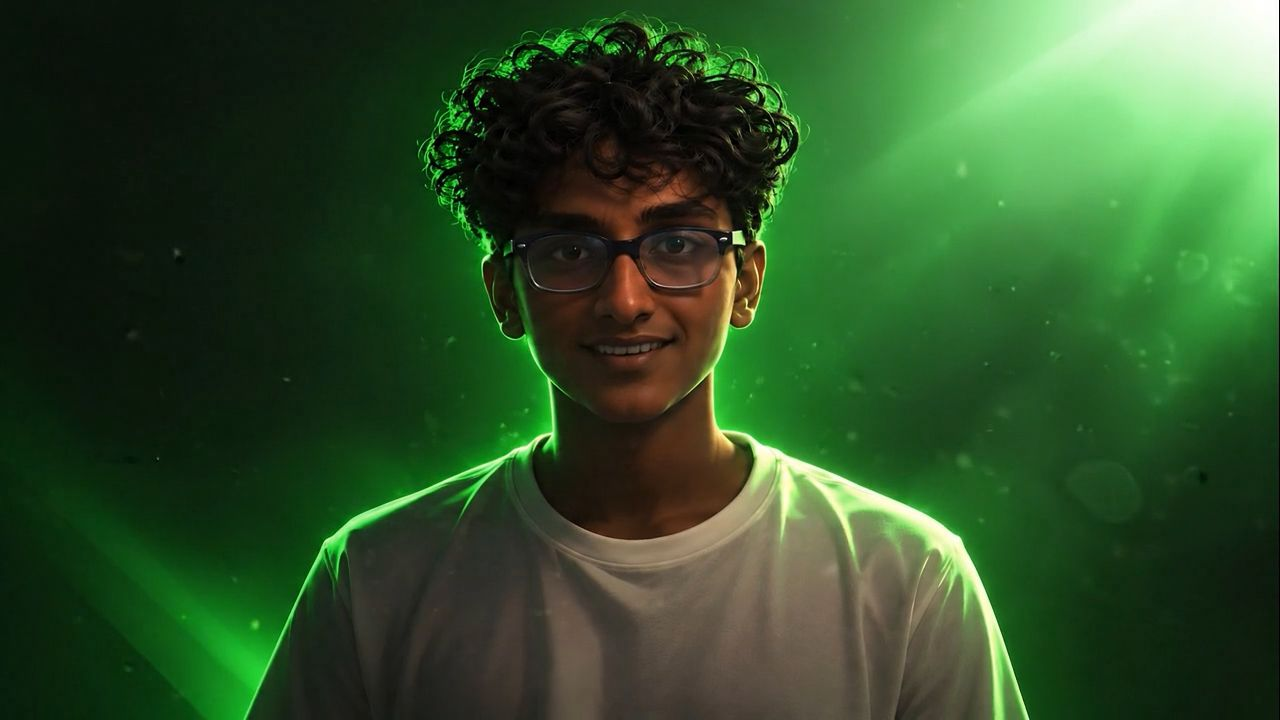
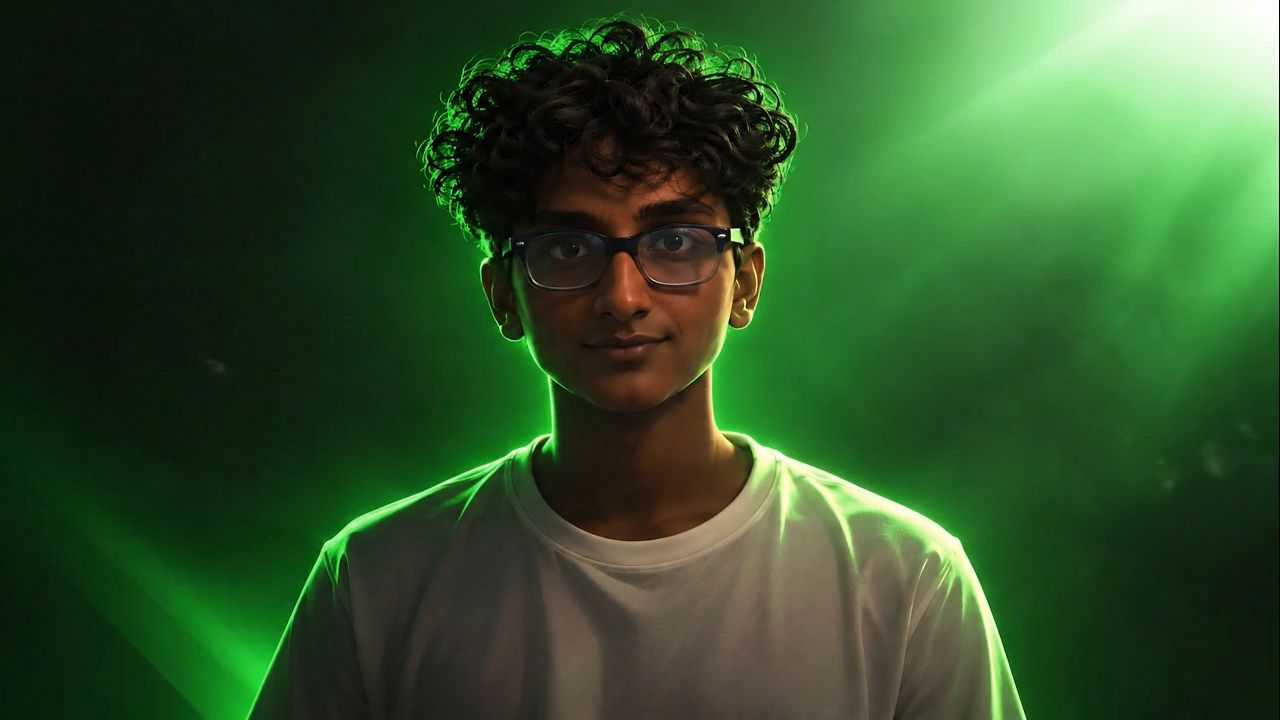
Use 98-frame hero sequence while preserving the original reveal pose

diff --git a/src/animations/hero-sequence.js b/src/animations/hero-sequence.js
@@ -1,4 +1,6 @@
-export const frameAtProgress = progress => 6 + Math.round(Math.max(0, Math.min(1, progress)) * 13);
+import { sequenceConfig } from './sequence-config.js';
+const { frameCount, holdFrame, openingDuration } = sequenceConfig;
+export const frameAtProgress = progress => holdFrame + Math.round(Math.max(0, Math.min(1, progress)) * (frameCount-holdFrame));
 export async function heroSequence() {
   const region = document.querySelector('.sequence'), hero = region.querySelector('.hero');
   const canvas = document.querySelector('#sequence'), ctx = canvas.getContext('2d');
@@ -14,16 +16,16 @@ export async function heroSequence() {
     const scale = Math.max(w/img.naturalWidth,h/img.naturalHeight);
     ctx.drawImage(img,(w-img.naturalWidth*scale)/2,(h-img.naturalHeight*scale)/2,img.naturalWidth*scale,img.naturalHeight*scale);
     canvas.dataset.frame=n;
-    document.querySelector('.progress i').style.width=`${(n-1)/18*100}%`;
+    document.querySelector('.progress i').style.width=`${(n-1)/(frameCount-1)*100}%`;
   }
   function sync(){ raf=0;if(!ready)return;const p=reduced.matches?0:progress();draw(frameAtProgress(p));hero.querySelector('.hero-copy').style.opacity=String(Math.max(0,1-p*1.65)); }
   function scroll(){if(ready&&!raf)raf=requestAnimationFrame(sync)}
-  function finish(){raf=0;draw(6);ready=true;hero.classList.add('ready');if(progress()>0)raf=requestAnimationFrame(sync)}
-  function autoplay(t){if(destroyed)return;start??=t;draw(Math.min(6,1+Math.floor((t-start)/110)));if(current<6&&!reduced.matches)raf=requestAnimationFrame(autoplay);else finish()}
+  function finish(){raf=0;draw(holdFrame);ready=true;hero.classList.add('ready');if(progress()>0)raf=requestAnimationFrame(sync)}
+  function autoplay(t){if(destroyed)return;start??=t;draw(Math.min(holdFrame,1+Math.floor((t-start)/openingDuration*(holdFrame-1))));if(current<holdFrame&&!reduced.matches)raf=requestAnimationFrame(autoplay);else finish()}
   try {
-    images = await Promise.all(Array.from({length:19},(_,i)=>new Promise((resolve,reject)=>{const img=new Image();img.src=`${import.meta.env.BASE_URL}frames/frame_${String(i+1).padStart(3,'0')}.jpg`;img.onload=()=>img.decode().then(()=>resolve(img),reject);img.onerror=reject;})));
+    images = await Promise.all(Array.from({length:frameCount},(_,i)=>new Promise((resolve,reject)=>{const img=new Image();img.src=`${import.meta.env.BASE_URL}frames/frame_${String(i+1).padStart(3,'0')}.jpg`;img.onload=()=>img.decode().then(()=>resolve(img),reject);img.onerror=reject;})));
     if(destroyed)return;
-    draw(reduced.matches?6:1);if(reduced.matches)finish();else raf=requestAnimationFrame(autoplay);
+    draw(reduced.matches?holdFrame:1);if(reduced.matches)finish();else raf=requestAnimationFrame(autoplay);
   } catch { hero.classList.add('ready');document.querySelector('.load-error').textContent='The sequence could not load. The collection is ready below.';region.style.height='100svh'; }
   const resize=new ResizeObserver(()=>{draw(current);if(ready)scroll()});resize.observe(hero);
   addEventListener('scroll',scroll,{passive:true});reduced.addEventListener('change',scroll);

diff --git a/tests/core.test.js b/tests/core.test.js
@@ -3,7 +3,7 @@ import assert from 'node:assert/strict';
 import { frameAtProgress } from '../src/animations/hero-sequence.js';
 import { components, defaults } from '../src/components/catalog.js';
 import fs from 'node:fs';
-test('scroll mapping clamps endpoints and reverses exactly',()=>{assert.equal(frameAtProgress(0),6);assert.equal(frameAtProgress(1),19);assert.equal(frameAtProgress(-1),6);assert.equal(frameAtProgress(2),19);const forward=Array.from({length:14},(_,i)=>frameAtProgress(i/13));assert.deepEqual(forward,Array.from({length:14},(_,i)=>i+6));assert.deepEqual([...forward].reverse(),Array.from({length:14},(_,i)=>frameAtProgress(1-i/13)))});
+test('scroll mapping clamps endpoints and reverses through all 72 scroll frames',()=>{assert.equal(frameAtProgress(0),27);assert.equal(frameAtProgress(1),98);assert.equal(frameAtProgress(-1),27);assert.equal(frameAtProgress(2),98);const forward=Array.from({length:72},(_,i)=>frameAtProgress(i/71));assert.deepEqual(forward,Array.from({length:72},(_,i)=>i+27));assert.deepEqual([...forward].reverse(),Array.from({length:72},(_,i)=>frameAtProgress(1-i/71)))});
 test('catalog has complete, bounded playground defaults',()=>{assert.equal(components.length,6);for(const c of components){assert.equal(typeof c.mount,'function');assert.ok(c.accessibility);for(const [key,,min,max] of c.controls){assert.ok(defaults(c)[key]>=min&&defaults(c)[key]<=max)}}});
-test('all 19 source frames preserve original dimensions',()=>{for(let i=1;i<=19;i++){const data=fs.readFileSync(new URL(`../public/frames/frame_${String(i).padStart(3,'0')}.jpg`,import.meta.url));assert.ok(data.length>60000);assert.equal(data[0],255);assert.equal(data[1],216);let offset=2,dimensions=null;while(offset<data.length){if(data[offset]!==255){offset++;continue}const marker=data[offset+1];if([192,193,194].includes(marker)){dimensions=[data.readUInt16BE(offset+7),data.readUInt16BE(offset+5)];break}offset+=2+data.readUInt16BE(offset+2)}assert.deepEqual(dimensions,[1280,720])}});
+test('all 98 source frames preserve original dimensions',()=>{for(let i=1;i<=98;i++){const data=fs.readFileSync(new URL(`../public/frames/frame_${String(i).padStart(3,'0')}.jpg`,import.meta.url));assert.ok(data.length>60000);assert.equal(data[0],255);assert.equal(data[1],216);let offset=2,dimensions=null;while(offset<data.length){if(data[offset]!==255){offset++;continue}const marker=data[offset+1];if([192,193,194].includes(marker)){dimensions=[data.readUInt16BE(offset+7),data.readUInt16BE(offset+5)];break}offset+=2+data.readUInt16BE(offset+2)}assert.deepEqual(dimensions,[1280,720])}});
 

diff --git a/src/animations/sequence-config.js b/src/animations/sequence-config.js
@@ -1,0 +1,1 @@
+export const sequenceConfig = Object.freeze({ frameCount: 98, holdFrame: 27, openingDuration: 550 });

diff --git a/README.md b/README.md
@@ -21,9 +21,9 @@ npm run preview
 
 ## The experience
 
-- All 19 supplied original JPEGs, unmodified, in `public/frames/` (1280 × 720).
-- Predecoded, time-based autoplay of frames 1–6. The title appears after frame 6 is drawn.
-- Native scrolling through a sticky hero maps progress to frames 6–19 and reverses without replaying the opening. No wheel interception.
+- All 98 supplied replacement JPEGs, unmodified, in `public/frames/` (1280 × 720). The original 19-frame set is preserved in `source-frames/original-19/`.
+- Predecoded, time-based autoplay of frames 1–27 over 550ms. The title appears after frame 27 is drawn (the exact image previously held at frame 6).
+- Native scrolling through a sticky hero maps progress to frames 27–98 and reverses without replaying the opening. No wheel interception.
 - Reduced motion skips autoplay and the long pinned section; all navigation and controls remain available.
 - Six real experiments: ASCII Ripple, Liquid Magnet, Magnetic Dock, Text Scramble, Morphing Toggle, Command Menu.
 - Search, category filtering, theme switch, hash-based documentation routes, adjustable playgrounds, code tabs, and clipboard export.
@@ -69,7 +69,7 @@ npm run test:browser
 npm run test:touch
 ```
 
-The browser suite checks autoplay, exact frame 6, forward/reverse scrolling, search and filters, live parameter/code changes, clipboard export, standalone examples, ripple movement, magnetic motion, keyboard commands and switches, mobile overflow, reduced motion, and direct-route reloads. Screenshots go to `test-results/` by default. Set `TEST_URL` for another serving URL and `SCREENSHOT_DIR` to select an artifact directory.
+The browser suite checks autoplay, exact frame 27, forward/reverse scrolling, search and filters, live parameter/code changes, clipboard export, standalone examples, ripple movement, magnetic motion, keyboard commands and switches, mobile overflow, reduced motion, and direct-route reloads. Screenshots go to `test-results/` by default. Set `TEST_URL` for another serving URL and `SCREENSHOT_DIR` to select an artifact directory.
 
 `src/animations/hero-sequence.js` owns hero lifecycle. Component mount functions return cleanup callbacks that release their animation frames, observers, and attached elements. No runtime packages are shipped. Canvas content is decorative; accessible native controls provide interaction elsewhere. No telemetry or third-party assets are loaded.
 
